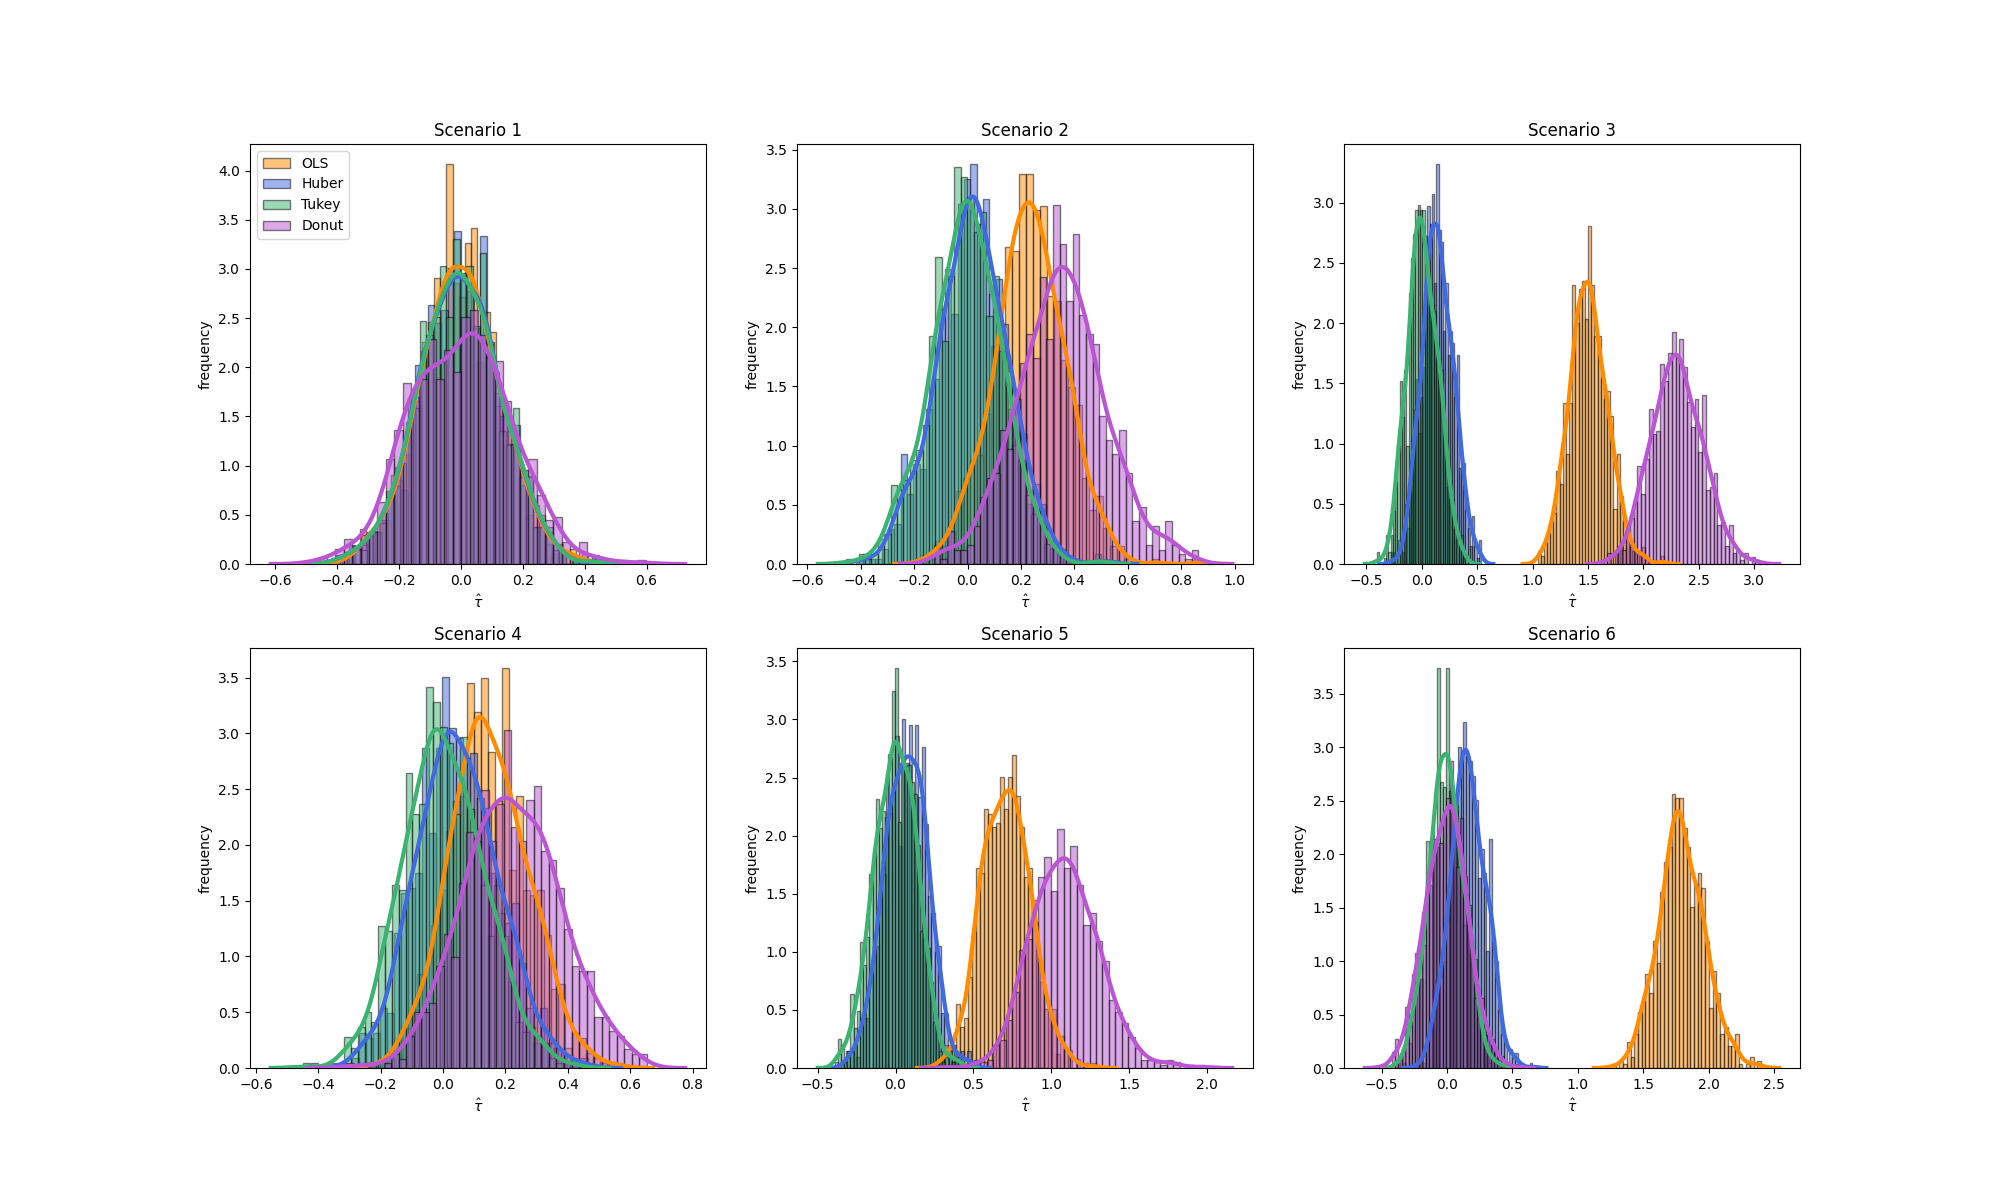
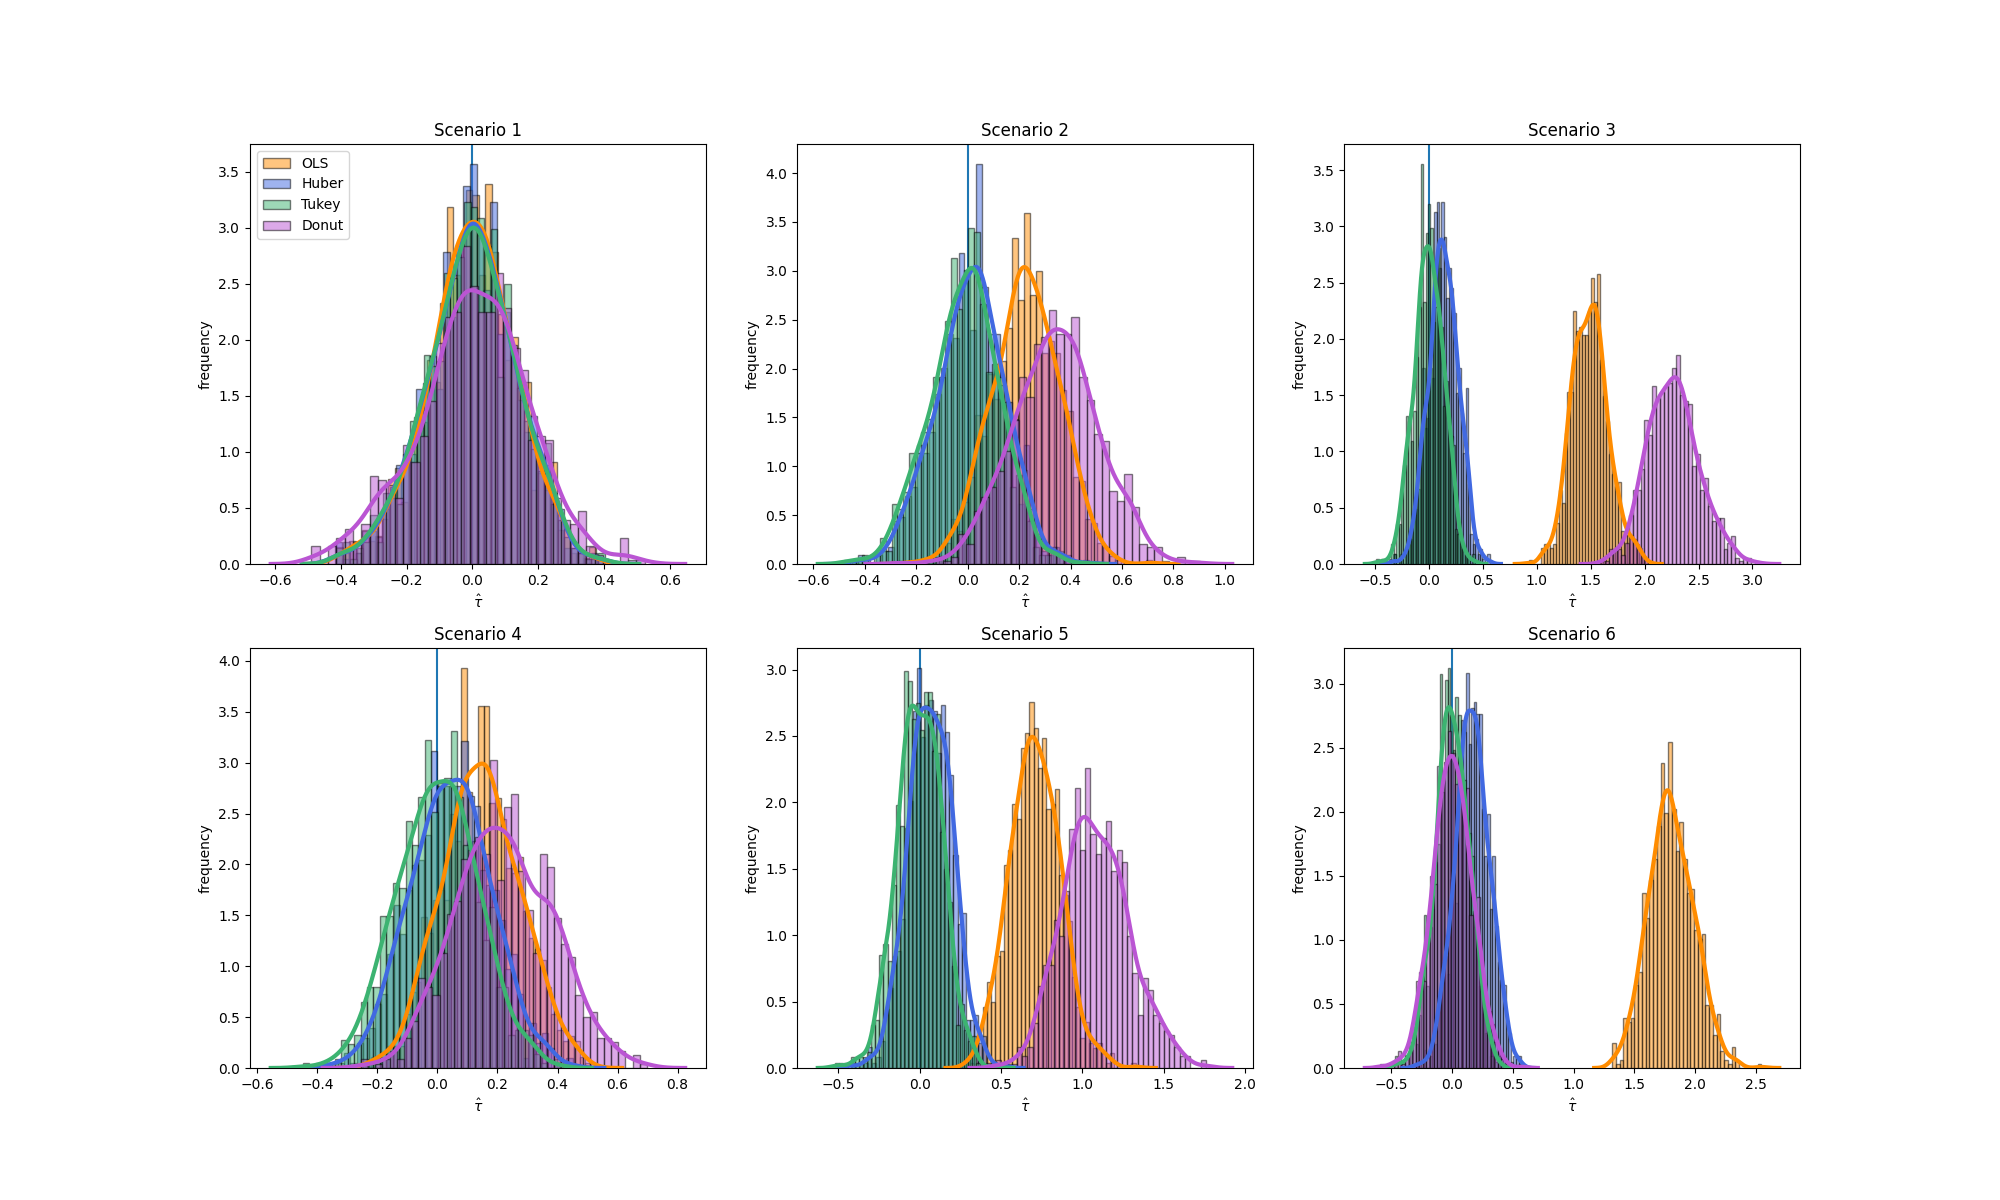
Fixed rmse

diff --git a/src/simMetrics.py b/src/simMetrics.py
@@ -209,13 +209,13 @@ def analyseSimResults(simResults, tau, printToLatex=False):
                 [
                     point1.mean()-tau,
                     point1.std(),
-                    compRMSE(point1, 2),
+                    compRMSE(point1, tau),
                     point2.mean()-tau,
                     point2.std(),
-                    compRMSE(point2, 2),
+                    compRMSE(point2, tau),
                     point3.mean()-tau,
                     point3.std(),
-                    compRMSE(point3, 2),
+                    compRMSE(point3, tau),
                 ]
             )
         ),
@@ -228,13 +228,13 @@ def analyseSimResults(simResults, tau, printToLatex=False):
                 [
                     point4.mean()-tau,
                     point4.std(),
-                    compRMSE(point4, 2),
+                    compRMSE(point4, tau),
                     point5.mean()-tau,
                     point5.std(),
-                    compRMSE(point5, 2),
+                    compRMSE(point5, tau),
                     point6.mean()-tau,
                     point6.std(),
-                    compRMSE(point6, 2),
+                    compRMSE(point6, tau),
                 ]
             )
         ),
@@ -468,6 +468,7 @@ def analyseSimResults(simResults, tau, printToLatex=False):
     )
     plotScenariosHist(
         [point1, point2, point3, point4, point5, point6],
+        tau,
         True,
         "images/scenariosHist_tau_"+str(tau)+".png",
     )

diff --git a/src/exports.py b/src/exports.py
@@ -42,7 +42,7 @@ def toLatexTable(results1, results2="", caption="", ref=""):
         )
 
 
-def plotScenariosHist(scenarios, saveFig=False, figPath=""):
+def plotScenariosHist(scenarios, tau, saveFig=False, figPath=""):
     """
     This function plots the histograms of the estimated ATE from the different
     scenarios, with a kernel density estimation.
@@ -83,6 +83,7 @@ def plotScenariosHist(scenarios, saveFig=False, figPath=""):
             kde.fit()
             axs[j][l].plot(kde.support, kde.density, lw=3, zorder=10, color=colors[c])
             c = c + 1
+        axs[j][l].axvline(x=tau)
         axs[j][l].set_title("Scenario " + str(1 + i))
 
         # Increment figure location and add legend

diff --git a/dev.py b/dev.py
@@ -46,6 +46,7 @@ import numpy as np
 
 r1, r2, n = 0,1000, 250
 
+
 outlierScenarios = (
     "Simple Outside Right",
     1,
